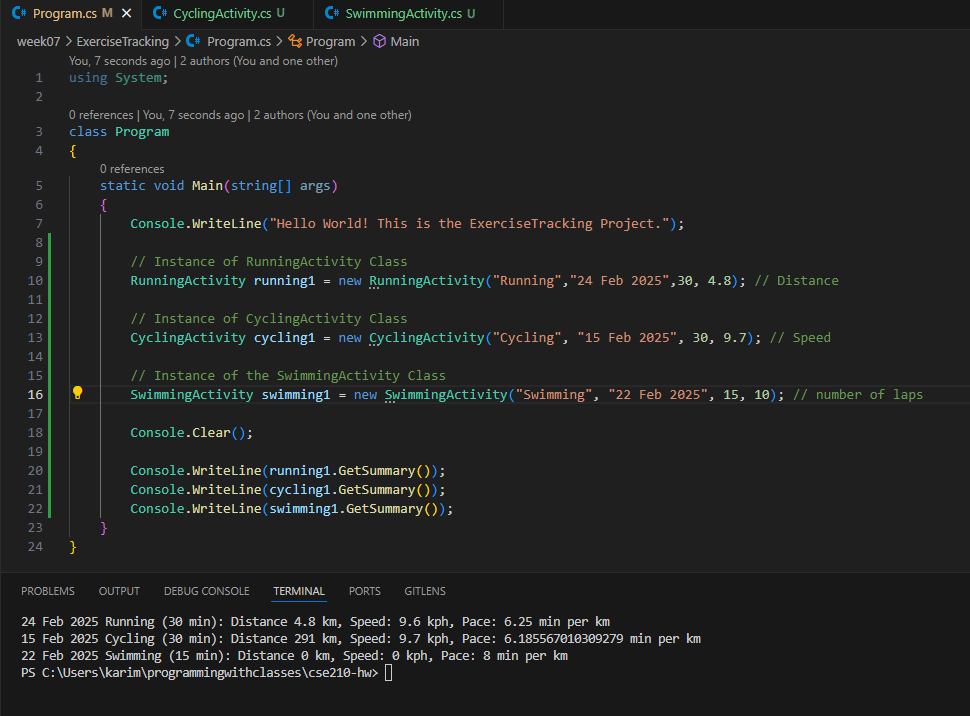
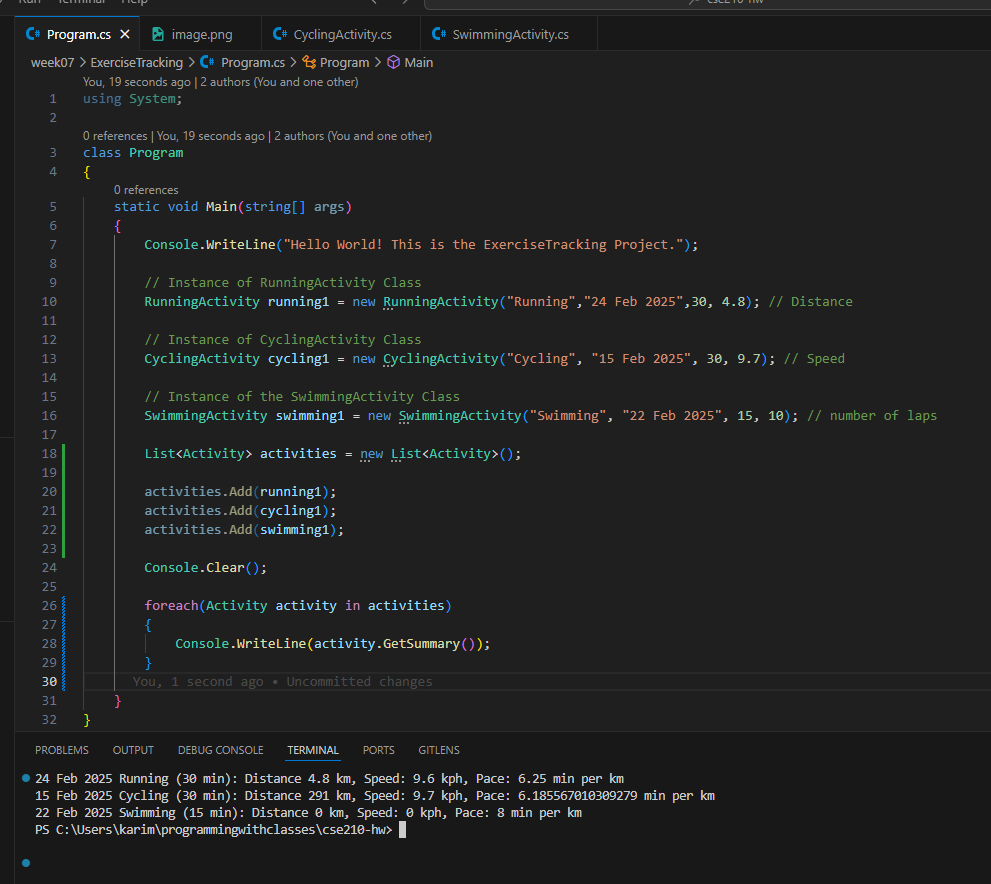
excercise list created

diff --git a/week07/ExerciseTracking/Program.cs b/week07/ExerciseTracking/Program.cs
@@ -15,10 +15,18 @@ class Program
         // Instance of the SwimmingActivity Class 
         SwimmingActivity swimming1 = new SwimmingActivity("Swimming", "22 Feb 2025", 15, 10); // number of laps
 
+        List<Activity> activities = new List<Activity>();
+
+        activities.Add(running1);
+        activities.Add(cycling1);
+        activities.Add(swimming1);
+
         Console.Clear();
 
-        Console.WriteLine(running1.GetSummary());
-        Console.WriteLine(cycling1.GetSummary());
-        Console.WriteLine(swimming1.GetSummary());
+        foreach(Activity activity in activities)
+        {
+            Console.WriteLine(activity.GetSummary());
+        }
+
     }
 }
